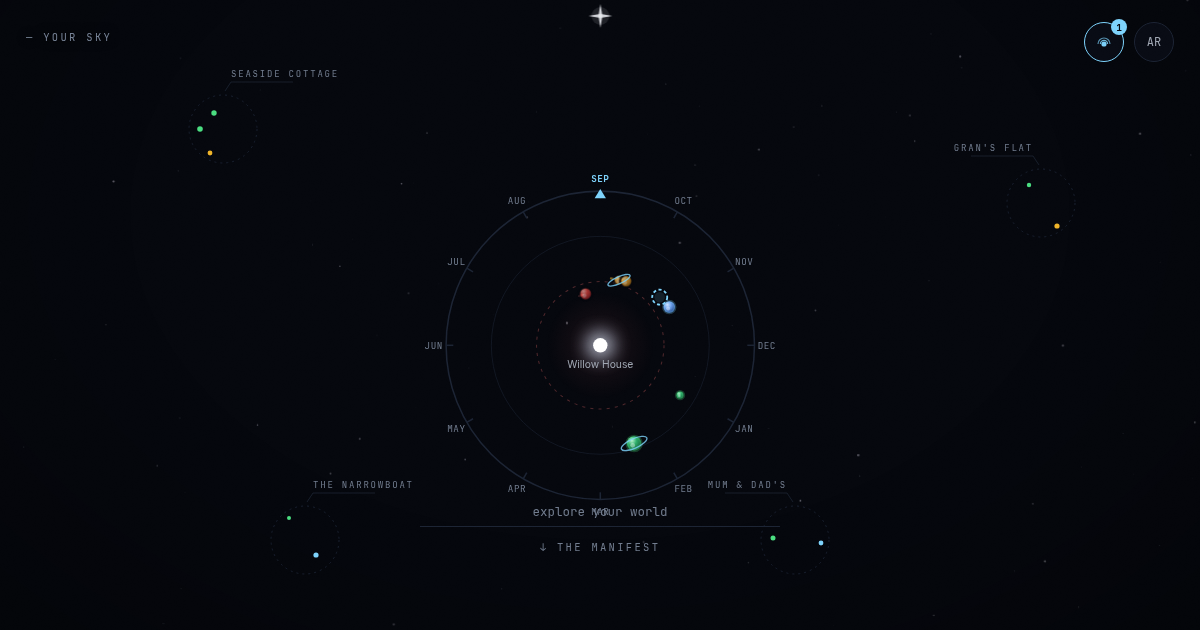
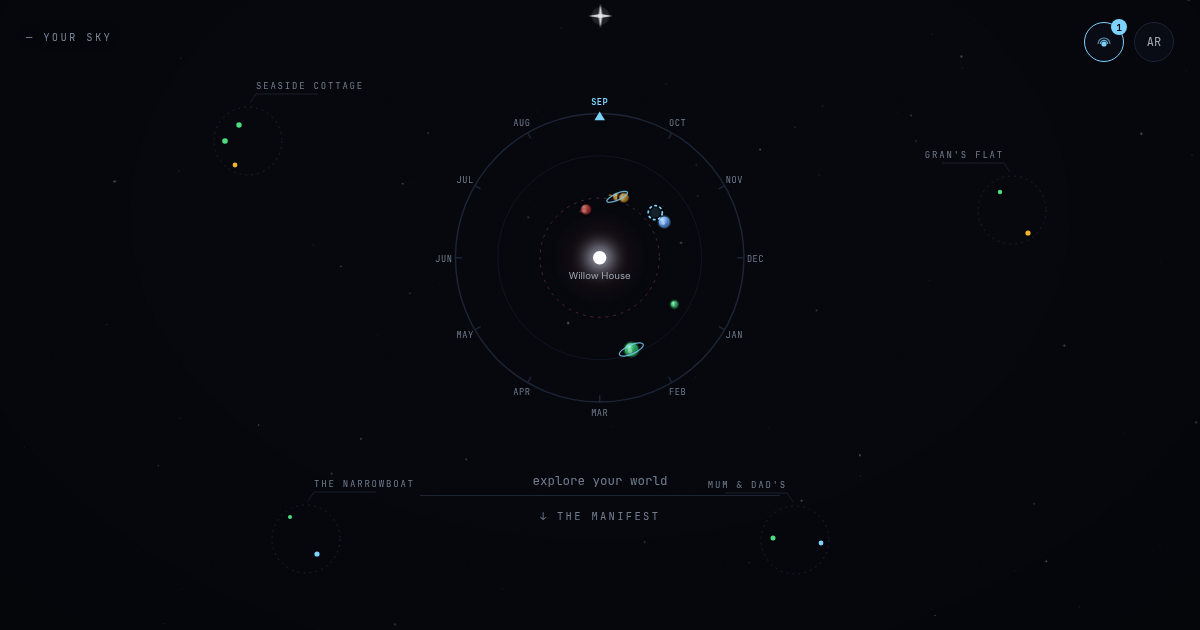
The explore field follows the dial; the social image is the sky itself

diff --git a/assets/site.css b/assets/site.css
@@ -336,7 +336,7 @@ body.farewell #dusk .farewell{opacity:1;transform:none}
 .drawer .gate{opacity:1;transform:none;transition:filter .35s ease;margin-top:6px}
 
 /* the hero: the dial, the other systems, the explore field */
-.hero{position:relative;min-height:100vh;display:grid;place-items:center;overflow:hidden;padding:60px 0 0}
+.hero{position:relative;min-height:100vh;display:flex;flex-direction:column;align-items:center;justify-content:center;overflow:hidden;padding:64px 0 96px}
 .galaxy{position:absolute;inset:0;pointer-events:none}
 .minisys{position:absolute;left:50%;top:50%;width:0;height:0;pointer-events:none;
   transition:transform 1.25s cubic-bezier(.5,.4,.15,1),opacity .6s}
@@ -346,7 +346,7 @@ body.farewell #dusk .farewell{opacity:1;transform:none}
 .minisys .msring{fill:none;stroke:var(--chart-line);stroke-width:.9;stroke-dasharray:2 4;transition:stroke .3s,stroke-opacity .3s}
 .minisys .lead{fill:none;stroke:var(--chart-line);stroke-width:.8}
 .minisys:hover .msring{stroke:var(--accent);stroke-opacity:.9}
-.dialwrap{position:relative;width:min(560px,92vw,62vh);aspect-ratio:1;transition:transform 1.25s cubic-bezier(.5,.4,.15,1),opacity .6s}
+.dialwrap{position:relative;width:min(560px,92vw,58vh);aspect-ratio:1;transition:transform 1.25s cubic-bezier(.5,.4,.15,1),opacity .6s}
 .hero.flying .dialwrap{transform:translate(calc(var(--flyx)*-1.7),calc(var(--flyy)*-1.7)) scale(.45);opacity:0}
 .hero.flying .minisys{opacity:.08}
 .hero.flying .minisys.target{opacity:1;transform:translate(0,0) scale(2.3)}
@@ -387,8 +387,7 @@ body.farewell #dusk .farewell{opacity:1;transform:none}
 .chart-callout.side-left .line{right:-27px}
 .chart-callout b{display:block;font-weight:600;font-size:13.5px}
 .chart-callout small{font:11.5px var(--mono);color:var(--ink-mid)}
-.hero-foot{position:absolute;left:50%;bottom:max(76px,9vh);transform:translateX(-50%);display:flex;flex-direction:column;align-items:center;gap:13px;
-  width:min(360px,90vw)}
+.hero-foot{position:relative;margin-top:26px;display:flex;flex-direction:column;align-items:center;gap:13px;width:min(360px,90vw)}
 .splash-search{position:relative;width:100%}
 .splash-search input{background:none;border:0;outline:0;border-bottom:1px solid var(--line);width:100%;text-align:center;
   font:12.5px var(--mono);color:var(--ink);padding:6px 4px;transition:border-color .25s}
@@ -403,10 +402,10 @@ body.farewell #dusk .farewell{opacity:1;transform:none}
 .palette button.act{color:var(--accent-text)}
 .palette .none{font:12px var(--mono);color:var(--ink-faint);padding:8px 10px}
 .cue{font:10.5px var(--mono);letter-spacing:.22em;color:var(--ink-faint);text-transform:uppercase}
-.chips{display:none;flex-wrap:wrap;gap:8px;justify-content:center;padding:0 16px;position:absolute;left:0;right:0;top:calc(50% + min(46vw,31vh) + 8px)}
+.chips{display:none;flex-wrap:wrap;gap:8px;justify-content:center;padding:0 16px;margin-top:18px}
 .chips button{font:11px var(--mono);letter-spacing:.06em;color:var(--ink-mid);background:var(--panel);border:1px solid var(--line);border-radius:99px;padding:7px 12px;cursor:pointer}
 .chips button:hover{border-color:var(--accent);color:var(--ink)}
-@media (max-width:900px){.galaxy{display:none}.chips{display:flex}.hero-foot{bottom:78px}.back,.orb{position:absolute}}
+@media (max-width:900px){.galaxy{display:none}.chips{display:flex}.back,.orb{position:absolute}}
 @media (max-width:560px){.item.suggest{flex-direction:column;align-items:stretch}.item.suggest .actions{justify-content:flex-end}}
 
 /* the manifest: the corridor, the spine of time */
